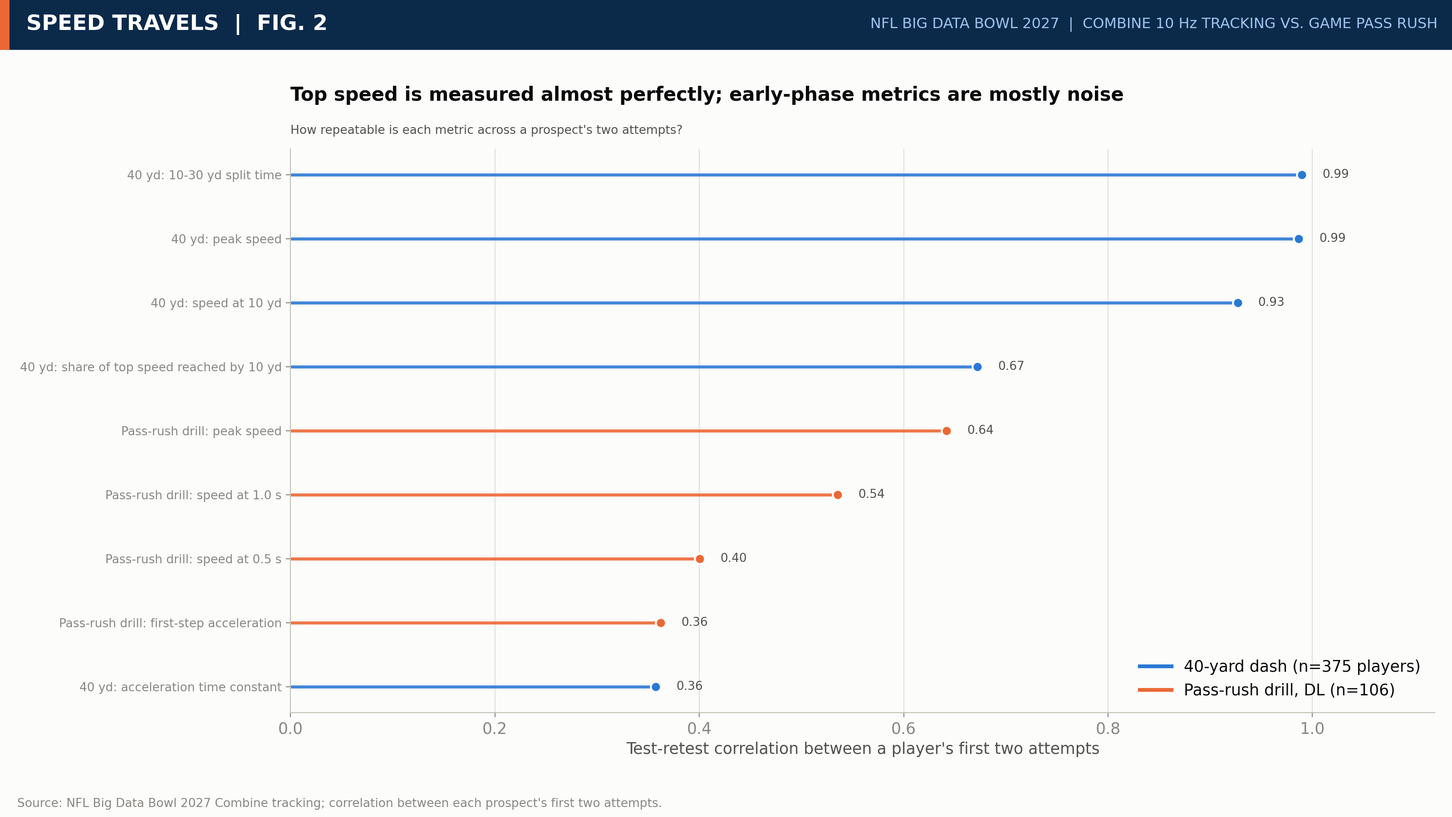
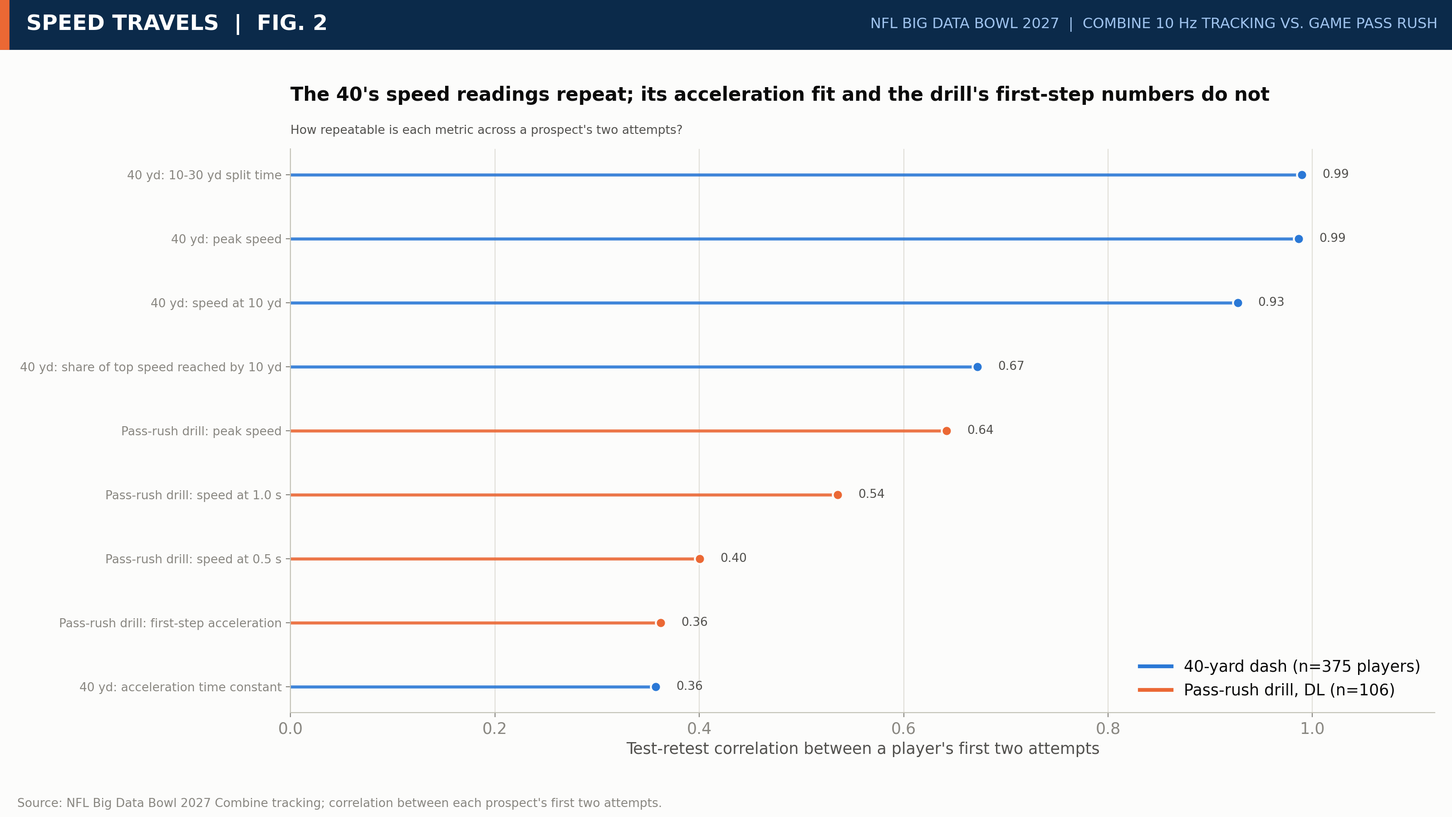
v27: fixes from second blind review; drill outlier check (E22); NO-GO on 2026 nflverse test
Claude-Session: https://claude.ai/code/session_01NYNpUw5TLCT8fUrXZ4q2c3

Changed region(s): [[0.1875, 0.0933, 0.875, 0.1244]]

diff --git a/notebook/speed_travels.py b/notebook/speed_travels.py
@@ -290,6 +290,8 @@ def bootr(x, y, B=2000):
 dd_ = pg.dropna(subset=["d_s10"])
 res["translate"] = dict(n_game=len(pg), r_vpk_s10=bootr(pg.vpk.values, pg.s_10.values), r_vpk_smax=bootr(pg.vpk.values, pg.smax_pre.values), n_drill=len(dd_),
                         r_drill_s10=bootr(dd_.d_s10.values, dd_.s_10.values), r_drill_s05=bootr(dd_.d_s05.values, dd_.s_10.values), r_drill_speak=bootr(dd_.d_speak.values, dd_.s_10.values))
+_z = (dd_.d_s10 - dd_.d_s10.mean()) / dd_.d_s10.std(); _k = (_z.abs() <= 3).values
+res["translate"]["r_drill_s10_trim"] = bootr(dd_.d_s10.values[_k], dd_.s_10.values[_k]); res["translate"]["n_drill_outliers"] = int((~_k).sum())
 for nm, msk in (("interior", pg.ipos > 0.5), ("edge", pg.ipos <= 0.5)):
     q = pg[msk]; res["translate"][f"within_{nm}"] = dict(n=len(q), r_vpk_s10=bootr(q.vpk.values, q.s_10.values) if len(q) > 10 else None)
 print(json.dumps(res["translate"], indent=1))
@@ -879,7 +881,7 @@ for i, (k, v) in enumerate(order):
     col = BLUE if k.startswith("40") else ORANGE; ax.hlines(i, 0, v, color=col, lw=2.4, alpha=0.9); ax.plot(v, i, "o", ms=8, color=col, mec=SURF, mew=1.5); ax.text(v + 0.02, i, f"{v:.2f}", va="center", fontsize=9.5, color=INK2)
 ax.set_yticks(range(len(order))); ax.set_yticklabels([k for k, _ in order], fontsize=9.5); ax.set_xlim(0, 1.12); ax.set_xlabel("Test-retest correlation between a player's first two attempts"); ax.grid(axis="y", visible=False)
 ax.legend(handles=[Line2D([0], [0], color=BLUE, lw=3, label=f"40-yard dash (n={res['reliability_n']['forty']} players)"), Line2D([0], [0], color=ORANGE, lw=3, label=f"Pass-rush drill, DL (n={res['reliability_n']['prd']})")], loc="lower right")
-headline(ax, "Top speed is measured almost perfectly; early-phase metrics are mostly noise", "How repeatable is each metric across a prospect's two attempts?"); fig.tight_layout(); save(fig, "fig2_reliability.png")
+headline(ax, "The 40's speed readings repeat; its acceleration fit and the drill's first-step numbers do not", "How repeatable is each metric across a prospect's two attempts?"); fig.tight_layout(); save(fig, "fig2_reliability.png")
 
 # %% [markdown]
 # **Figure 3.** Which Combine numbers show up in the game?
@@ -890,9 +892,10 @@ ax[0].scatter(pg.vpk, pg.s_10, s=np.clip(pg.n / 6, 14, 90), c=np.where(pg.ipos >
 r, lo, hi = tr_["r_vpk_s10"]; ax[0].text(0.04, 0.95, f"within interior r = {tr_['within_interior']['r_vpk_s10'][0]:.2f}, within edge r = {tr_['within_edge']['r_vpk_s10'][0]:.2f}\npooled r = {r:.2f} (inflated by the group gap); n = {tr_['n_game']}", transform=ax[0].transAxes, va="top", fontsize=10, fontweight="bold")
 headline(ax[0], "Top-end speed shows up in the rush", "Combine 40 top speed vs. in-game speed 1.0 s into a pass rush; dot size = game rushes")
 ax[1].scatter(dd_.d_s10, dd_.s_10, s=np.clip(dd_.n / 6, 14, 90), c=np.where(dd_.ipos > 0.5, BLUE, ORANGE), alpha=0.8, lw=0.8, edgecolor=SURF); ax[1].set_xlabel("Combine pass-rush drill: speed 1.0 s in (yd/s)")
-r, lo, hi = tr_["r_drill_s10"]; ax[1].text(0.04, 0.95, f"r = {r:.2f}  (95% CI {lo:.2f} to {hi:.2f})\nn = {tr_['n_drill']} linemen", transform=ax[1].transAxes, va="top", fontsize=10.5, fontweight="bold")
-headline(ax[1], "The drill's speed 1.0 s in does not", "Same in-game outcome vs. the Combine pass-rush drill's speed 1.0 s in")
-ax[1].legend(handles=[Line2D([0], [0], marker="o", ls="", color=BLUE, label="Interior DL"), Line2D([0], [0], marker="o", ls="", color=ORANGE, label="Edge")], loc="lower right"); fig.tight_layout(); save(fig, "fig3_translation.png")
+r, lo, hi = tr_["r_drill_s10"]; r_wo = tr_["r_drill_s10_trim"][0]; n_out = tr_["n_drill_outliers"]
+ax[1].text(0.97, 0.05, f"r = {r:.2f}  (95% CI {lo:.2f} to {hi:.2f})\nwithout {n_out} drill outlier(s) beyond 3 SD: r = {r_wo:.2f}\nn = {tr_['n_drill']} linemen", transform=ax[1].transAxes, ha="right", va="bottom", fontsize=10, fontweight="bold")
+headline(ax[1], "The drill's speed 1.0 s in tracks it more weakly", "Same in-game outcome vs. the Combine pass-rush drill's speed 1.0 s in")
+ax[1].legend(handles=[Line2D([0], [0], marker="o", ls="", color=BLUE, label="Interior DL"), Line2D([0], [0], marker="o", ls="", color=ORANGE, label="Edge")], loc="upper right"); fig.tight_layout(); save(fig, "fig3_translation.png")
 
 # %% [markdown]
 # **Figure 4.** Interior DL: pressure rate rises with Combine top speed. Edge rushers: it does not.
@@ -921,7 +924,7 @@ ax.hlines(y[-1], nloo[0], nloo[1], color=BLUE, lw=5, alpha=0.5); ax.text(XR + 0.
 pbx = res.get("pooled_boot")
 if pbx: ax.set_ylim(-0.7, y[0] + 1.5); ax.hlines(y[0] + 0.9, pbx["OR_lo"], pbx["OR_hi"], color=ORANGE, lw=2.2); ax.plot(rb[rows_[0][0]]["OR"], y[0] + 0.9, "o", color=ORANGE, ms=7.5, mec=SURF, mew=1.4); ax.text(XR + 0.03, y[0] + 0.9, f"[{pbx['OR_lo']:.2f}, {pbx['OR_hi']:.2f}]  baseline, player bootstrap", va="center", fontsize=9, color=ORANGE)
 ax.set_yticks(y); ax.set_yticklabels([k for k, _ in rows_] + ["Drop any single player (all refits)"], fontsize=9.5); ax.axvline(1, color=INK2, lw=1.2, ls="--"); ax.set_xlim(0.9, XR); ax.set_xlabel("Odds ratio of generating pressure per +0.5 yd/s top speed (stopwatch row: per 0.2 s faster)"); ax.grid(axis="y", visible=False)
-headline(ax, "Stable point estimates, but the uncertainty is wider than these bars", f"Clustered-SE 95% CIs (blue); orange = baseline with whole players resampled. Point estimates {min(v['OR'] for v in rb.values()):.2f} to {max(v['OR'] for v in rb.values()):.2f}; {sum(v['lo'] <= 1 for v in rb.values())} of {len(rb)} intervals touch 1.0"); fig.tight_layout(); save(fig, "fig5_robust.png", right=0.74)
+headline(ax, "Stable point estimates, but the uncertainty is wider than these bars", f"Clustered-SE 95% CIs (blue); orange = baseline with whole players resampled. Point estimates {min(v['OR'] for v in rb.values()):.2f} to {max(v['OR'] for v in rb.values()):.2f}; {sum(v['lo'] <= 1 for v in rb.values())} of {len(rb)} clustered intervals touch 1.0" + ("; so does the player-bootstrap interval" if (res.get("pooled_boot") or {}).get("OR_lo", 2) <= 1 else "")); fig.tight_layout(); save(fig, "fig5_robust.png", right=0.74)
 
 # %% [markdown]
 # **Figure 6.** The interior effect class by class.
@@ -939,7 +942,7 @@ for yv, (lab, o_, l_, h_, bl, bh, nn_) in zip(yy6, rows6):
 ax.set_xscale("log"); ax.xaxis.set_minor_formatter(matplotlib.ticker.NullFormatter()); ax.set_xticks([0.5, 0.75, 1, 1.5, 2, 3, 4]); ax.set_xticklabels(["0.5", "0.75", "1", "1.5", "2", "3", "4"]); ax.set_xlim(0.25, 4.3)
 ax.axvline(1, color=INK2, lw=1.2, ls="--"); ax.set_yticks(yy6); ax.set_yticklabels([r_[0] for r_ in rows6], fontsize=10); ax.grid(axis="y", visible=False); ax.set_xlabel("Odds ratio of pressure per +0.5 yd/s top speed (log scale)")
 ax.legend(handles=[Line2D([0], [0], color=BLUE, lw=2.6, label="clustered-SE 95% CI"), Line2D([0], [0], color=ORANGE, lw=2.2, label="player-bootstrap 95% CI")], loc="lower left", fontsize=9)
-headline(ax, "Every class leans positive; only 2023 is precise", f"Interior DL. Class-by-speed interaction p = {wcf['interaction_wald_p']:.2f}: the data cannot tell a common effect from a 2023-only one.")
+headline(ax, "Every class leans positive; none is precise once whole players are resampled", f"Interior DL. Class-by-speed interaction p = {wcf['interaction_wald_p']:.2f}: the data cannot tell a common effect from a 2023-only one.")
 fig.tight_layout(); save(fig, "fig6_scouting.png", right=0.80)
 
 # %% [markdown]

diff --git a/writeup/fill_writeup.py b/writeup/fill_writeup.py
@@ -158,7 +158,7 @@ if lc:
             prec = [k for k in cls_ if wc[k]["lo"] > 1.0]
             s_ += (" Per class (Fig. 6) the estimate " + ("exceeds 1" if all(wc[k]["OR"] > 1 for k in cls_) else "mixed") + " ("
                    + ", ".join(f"{k} {wc[k]['OR']:.2f}" for k in cls_) + f"; class difference p = {wc['interaction_wald_p']:.2f}), but only "
-                   + " and ".join(prec) + " is precise" + (f"; without {c_}, OR {ex_['OR']:.2f} [{ex_['lo']:.2f}, {ex_['hi']:.2f}]" if ex_ else "")
+                   + " and ".join(prec) + "'s clustered interval excludes 1" + (f", and its player bootstrap ({wc[prec[0]]['boot_ci'][0]:.2f} to {wc[prec[0]]['boot_ci'][1]:.2f}) touches 1" if len(prec) == 1 and wc[prec[0]].get("boot_ci") and wc[prec[0]]["boot_ci"][0] <= 1 else "") + (f"; without {c_}, OR {ex_['OR']:.2f} [{ex_['lo']:.2f}, {ex_['hi']:.2f}]" if ex_ else "")
                    + f". The data cannot separate a common effect from a {c_}-only one.")
             bc_ = wc[c_].get("boot_ci")
             tok["LIM_CLASS"] = (f"Only the {c_} class estimates the interior effect precisely" + (f" (its player bootstrap, {bc_[0]:.2f} to {bc_[1]:.2f}, touches 1)" if bc_ and bc_[0] <= 1 else "")

diff --git a/writeup/writeup_template.md b/writeup/writeup_template.md
@@ -2,7 +2,7 @@
 
 **Track:** Open. The attached public notebook rebuilds every number and figure from the raw competition files; code, figures and results are mirrored at github.com/tdogukan470-jpg/nfl-bdb-2027.
 
-**Bottom line for a front office.** (1) The 40's top speed is the one Combine movement number that reaches the field: it repeats almost perfectly and shows up in game speed, while drill first-step numbers are noise. (2) Faster interior linemen get off the ball sooner (robust to resampling whole players) and generate more pressure ({PCT1:p10_p90.rate10}% to {PCT1:p10_p90.rate90}% from the 10th to 90th speed percentile); the pressure gain is precise only in the 2023 class, so use it as a tiebreaker, not a rule. (3) For edge rushers, offensive linemen and receivers the 40 adds nothing detectable beyond size and draft slot.
+**Bottom line for a front office.** (1) The 40's top speed is the one Combine movement number that reaches the field: it repeats almost perfectly and shows up in game speed, while drill first-step numbers repeat poorly and track game speed weakly. (2) Faster interior linemen get off the ball sooner (robust to resampling whole players) and generate more pressure ({PCT1:p10_p90.rate10}% to {PCT1:p10_p90.rate90}% from the 10th to 90th speed percentile); the pressure gain is borderline once whole players are resampled ({F2:pooled_boot.OR_lo} to {F2:pooled_boot.OR_hi}) and has not held out of class, so use it as a tiebreaker, not a rule. (3) For edge rushers, offensive linemen and receivers the 40 shows no consistent effect beyond size and draft slot (one edge class, 2024, alone gives OR {F2:within_class.edge_2024.OR}, player bootstrap {F2:within_class.edge_2024.boot_ci.0} to {F2:within_class.edge_2024.boot_ci.1}).
 
 ## 1. The question
 
@@ -26,16 +26,16 @@ From each 10 Hz 40-yard trace we rebuilt start of motion, peak speed over 30 yd,
 
 **Data hygiene.** We drop preseason and playoff games ({PCT_NONREG}% of player-play rows) and keep regular-season dropbacks; including every game gives OR {OR:robust.All games incl. preseason and playoffs}.
 
-## 3. Drill numbers do not travel (Fig. 3)
+## 3. Drill numbers travel weakly (Fig. 3)
 
-For {N:translate.n_game} linemen with both drill traces and game tracking, the 40's top speed tracks game speed one second after the snap within each group (interior r = {F2:translate.within_interior.r_vpk_s10.0}, edge r = {F2:translate.within_edge.r_vpk_s10.0}; pooled {F2:translate.r_vpk_s10.0}, inflated by the interior-edge gap). The drill's speed one second in does not (r = {F2:translate.r_drill_s10.0}, CI {F2:translate.r_drill_s10.1} to {F2:translate.r_drill_s10.2}); its peak speed does better (r = {F2:translate.r_drill_speak.0}; top speed again). Trust the 40's speed trace; single-attempt first-step numbers are too noisy to use alone.
+For {N:translate.n_game} linemen with both drill traces and game tracking, the 40's top speed tracks game speed one second after the snap within each group (interior r = {F2:translate.within_interior.r_vpk_s10.0}, edge r = {F2:translate.within_edge.r_vpk_s10.0}; pooled {F2:translate.r_vpk_s10.0}, inflated by the interior-edge gap). The drill's speed one second in tracks it weakly: r = {F2:translate.r_drill_s10.0} (CI {F2:translate.r_drill_s10.1} to {F2:translate.r_drill_s10.2}), or {F2:translate.r_drill_s10_trim.0} ({F2:translate.r_drill_s10_trim.1} to {F2:translate.r_drill_s10_trim.2}) without one outlier trace, against {F2:translate.r_vpk_s10.0} for the 40 on the same pooled basis. Trust the 40's speed trace, not single-attempt first-step numbers.
 
 ![Fig. 3: Does Combine speed translate to in-game speed?]({IMG}fig3_translation.png)
-*Figure 3. Combine measures against in-game speed one second after the snap: the 40's top speed (left) carries over, the pass-rush drill's speed 1.0 s in (right) does not. Dot size: game rushes.*
+*Figure 3. Combine measures against in-game speed one second after the snap: the 40's top speed (left) carries over, the pass-rush drill's speed 1.0 s in (right) tracks it more weakly, and its r depends on one outlier. Dot size: game rushes.*
 
 ## 4. Method
 
-From 2023 to 2025 regular-season tracking we computed pressure per pass rush (interior DL, edge), pressure allowed per block (OL) and separation at pass-forward for WR/TE adjusted for route and coverage. The Combine feature is mean top speed across a player's 40 attempts, in units of +0.5 yd/s, about {STOPWATCH} s on the stopwatch at a lineman's speed. Models are GEE with standard errors clustered by player [8] (logistic for pressure, linear for separation), controlling for weight, arm length, log draft slot and draft class, plus down and distance for rushers and route, coverage and cushion for receivers. Speed and weight correlate at {F2:interior_corr_weight_speed} among interior linemen, so size is always in the model. An odds ratio (OR) of 1.22 means 22% higher odds of pressure; 1.0 means no effect.
+From 2023 to 2025 regular-season tracking we computed pressure per pass rush (interior DL, edge), pressure allowed per block (OL) and separation at pass-forward for WR/TE adjusted for route and coverage. The Combine feature is mean top speed across a player's 40 attempts, in units of +0.5 yd/s, about {STOPWATCH} s on the stopwatch at a lineman's speed. Models are GEE with standard errors clustered by player [8] (logistic for pressure, linear for separation), controlling for weight, arm length, log draft slot and draft class, plus game situation (and route and coverage for receivers). Speed and weight correlate at {F2:interior_corr_weight_speed} among interior linemen, so size is always in the model. An odds ratio (OR) of 1.22 means 22% higher odds of pressure; 1.0 means no effect.
 
 ## 5. Result: interior defensive linemen
 
@@ -63,7 +63,7 @@ For {N:n.int_players} interior DL and {N:n.int_snaps} rushes, each +0.5 yd/s rai
 
 ## 6. Are we only seeing the players good enough to play?
 
-A fast lineman who never earns snaps is invisible here, which could flatter speed. Of {N:selection.universe} prospects, {PCT0:selection.share_any_snap}% appear in game tracking, but only {N:selection.S_rush.n_selected} ({PCT0:selection.share_rush}%) rush the passer and {N:selection.S_100.n_selected} ({PCT0:selection.share_100}%) rush 100+ times. Upweighting rushers whose profile made the field unlikely (stabilized inverse-probability weights; with AUC {F2:selection.S_rush.auc} the weights lean on few players) gives OR {OR:robust.IPW selection weights (any rush snap)} ({LO:robust.IPW selection weights (any rush snap)} to {HI:robust.IPW selection weights (any rush snap)}), the same for 100+ rushes. A Heckman-type control function [7], with draft class as the excluded variable, gives {OR:robust.Heckman-type control function (any rush snap)} and {OR:robust.Heckman-type control function (100+ rush snaps)} (Mills ratio p = {P2:selection.S_rush.imr_coef_p} and {P2:selection.S_100.imr_coef_p}). Correcting for who reached the field shrinks the estimate slightly but does not remove it.
+A fast lineman who never earns snaps is invisible here, which could flatter speed. Of {N:selection.universe} prospects, {PCT0:selection.share_any_snap}% appear in game tracking, but only {N:selection.S_rush.n_selected} ({PCT0:selection.share_rush}%) rush the passer and {N:selection.S_100.n_selected} ({PCT0:selection.share_100}%) rush 100+ times. Upweighting rushers whose profile made the field unlikely (stabilized inverse-probability weights; with AUC {F2:selection.S_rush.auc} the weights lean on few players) gives OR {OR:robust.IPW selection weights (any rush snap)} ({LO:robust.IPW selection weights (any rush snap)} to {HI:robust.IPW selection weights (any rush snap)}), the same for 100+ rushes. A Heckman-type control function [7], with draft class as the excluded variable (so that outcome model drops class fixed effects), gives {OR:robust.Heckman-type control function (any rush snap)} and {OR:robust.Heckman-type control function (100+ rush snaps)} (Mills ratio p = {P2:selection.S_rush.imr_coef_p} and {P2:selection.S_100.imr_coef_p}). The estimate shrinks slightly but survives.
 
 ## 7. Is it the player or the situation?
 
@@ -71,7 +71,7 @@ Some rushes are easier than others. We predicted each rush's pressure chance (xP
 
 Pressure Over Expected (POE) is pressure minus xP: what the rusher adds beyond his situation. Adjusting for situation changes nothing: interior OR {OR:poe.interior.or_offset} ({LO:poe.interior.or_offset} to {HI:poe.interior.or_offset}), or {F1:poe.interior.poe_pp_per_unit.b} POE points per 100 rushes per +0.5 yd/s ({F1:poe.interior.poe_pp_per_unit.lo} to {F1:poe.interior.poe_pp_per_unit.hi}). Edge: OR {OR:poe.edge.or_offset} ({LO:poe.edge.or_offset} to {HI:poe.edge.or_offset}).
 
-**Can we rank individual players? No.** A Beta-Binomial model that pulls each player's POE toward what his measurables predict cuts the spread of player POE from {F1:eb.interior.sd_raw_poe_pp} to {F1:eb.interior.sd_shrunk_poe_pp} points; at 500 rushes a player's own record gets {EBW}% weight. Speed in that model carries OR {F2:eb.interior.OR} (likelihood-ratio p = {P3:eb.interior.lr_p}, but player bootstrap {F2:eb.interior.OR_lo} to {F2:eb.interior.OR_hi}): supportive, not decisive. Edge: OR {F2:eb.edge.OR} ({F2:eb.edge.OR_lo} to {F2:eb.edge.OR_hi}).
+**Can we rank individual players? No.** A Beta-Binomial model that pulls each player's POE toward what his measurables predict cuts the spread of player POE from {F1:eb.interior.sd_raw_poe_pp} to {F1:eb.interior.sd_shrunk_poe_pp} points; at 500 rushes a player's own record gets {EBW}% weight. Speed in that model carries OR {F2:eb.interior.OR} (likelihood-ratio p = {P3:eb.interior.lr_p}, but player bootstrap {F2:eb.interior.OR_lo} to {F2:eb.interior.OR_hi}): supportive, not decisive.
 
 ## 8. How does speed become pressure?
 
@@ -79,14 +79,14 @@ We split the speed effect into paths (Imai-Keele-Tingley mediation [5], 1,000 dr
 
 **Interior: a faster first move.** Speed shortens get-off (snap to first movement) by {GETOFF_SD} SD per +0.5 yd/s (whole-player bootstrap {GETOFF_BOOT}; shorter in all three classes, each imprecise alone), and get-off drives pressure: the part running through it (indirect effect) is {PP:mediation.interior.player_get_off.acme} (p = {P3:mediation.interior.player_get_off.acme.p}) of a total {PP:mediation.interior.player_get_off.tot}, so **{PCT0:mediation.interior.player_get_off.prop.est}% ({PCT0:mediation.interior.player_get_off.prop.lo}% to {PCT0:mediation.interior.player_get_off.prop.hi}%) runs through get-off**. No other path carries a detectable share.
 
-**Edge: the path spends the speed.** Faster edge rushers do run faster in-game (indirect effect through speed at 1 s {PP:mediation.edge.s_10.acme}), but they take less direct paths: path efficiency carries {PP:mediation.edge.path_eff_20.acme} against a direct effect of {PP:mediation.edge.path_eff_20.ade}, total {PP:mediation.edge.path_eff_20.tot}. These assume no unmeasured factor drives both path and outcome.
+**Edge.** Faster edge rushers run faster in-game (indirect effect through speed at 1 s {PP:mediation.edge.s_10.acme}) but take less direct paths (path efficiency {PP:mediation.edge.path_eff_20.acme}); the total, {PP:mediation.edge.path_eff_20.tot}, includes zero. This assumes no unmeasured factor drives both path and outcome.
 
-## 9. Does it predict players we have not seen?
+## 9. Does it hold in a new season and a new class?
 
-The easier test: fit through 2024, predict 2025 (Fig. 7). For {N:forward.eval_players} interior linemen with 75+ snaps, adding speed lifts the rank correlation from {F2:forward.rho_draft+size} to {F2:forward.rho_draft+size+speed}; the log-loss gain is positive in {PCT0:forward.dll_pos_share}% of bootstrap resamples but its interval includes zero. {LOCO_SENTENCE}
+The easier test: fit through 2024, predict 2025 (Fig. 7). For {N:forward.eval_players} interior linemen with 75+ snaps, adding speed lifts the rank correlation from {F2:forward.rho_draft+size} to {F2:forward.rho_draft+size+speed}; the log-loss gain's interval includes zero. {LOCO_SENTENCE}
 
 ![Fig. 6: Interior effect by draft class]({IMG}fig6_scouting.png)
-*Figure 6. Interior speed effect fit separately by draft class. Blue: clustered-SE intervals; orange: whole-player bootstrap. Every class leans positive; only 2023 is precise.*
+*Figure 6. Interior speed effect fit separately by draft class. Blue: clustered-SE intervals; orange: whole-player bootstrap. Every class leans positive; none is precise once whole players are resampled (2023 is the tightest).*
 
 ![Fig. 7: Out-of-time check (fit through 2024, test 2025)]({IMG}fig7_forward.png)
 *Figure 7. Models fit on 2023 and 2024 predict 2025 interior pressure rates; most 2025 rates sit above the predictions. Adding Combine speed lifts the rank correlation from {F2:forward.rho_draft+size} to {F2:forward.rho_draft+size+speed}; the change has a 95% interval of {F2:forward.drho_ci.0} to {F2:forward.drho_ci.1}.*
@@ -102,7 +102,7 @@ The easier test: fit through 2024, predict 2025 (Fig. 7). For {N:forward.eval_pl
 | Interior, 10 to 30 yd split <= {CUT_G} s ({N_G} players) | POE {POE_G} vs {POE_REST} for the rest; gap {GAP_G} | Flag for a closer pass-rush look |
 | Interior, split {CUT_G} to {CUT_R} s ({N_MID} players) | {MID_TEXT} | Rely on tape and size |
 | Interior, split > {CUT_R} s ({N_R} players) | POE {POE_R} | Lower pass-rush priority; let tape decide |
-| Interior up to {W2} lb (3-tech types) | Fast-minus-slow POE {GAP_LIGHT_CI} (<= {W1} lb) and {GAP_MID_CI} ({W1P} to {W2} lb) | {LIGHT_ACTION} |
+| Interior up to {W2} lb (the lightest band includes linebackers and DBs aligned inside) | Fast-minus-slow POE {GAP_LIGHT_CI} (<= {W1} lb) and {GAP_MID_CI} ({W1P} to {W2} lb) | {LIGHT_ACTION} |
 | Interior {W2P}+ lb (nose types) | Fast-minus-slow {GAP_HEAVY} | No gap; use other traits |
 | Fast edge, efficient drill path ({N_FE} players) | POE {POE_FE} | No clear gain from speed; judge on tape |
 | Fast edge, inefficient drill path ({N_FI} players) | POE {POE_FI}; wide {POE_FI_W}, tight {POE_FI_T} (exploratory) | Wider alignment did not help |
@@ -115,13 +115,13 @@ Edge cells use the drill's path efficiency, which does not predict pressure on i
 
 - Observational data: no causal claim beyond the mediation assumptions above.
 - {N:n.int_players} interior and {N:n.edge_players} edge players; decision-matrix cells are small.
-- Only the 2023 class estimates the pressure effect precisely.
+- No single draft class pins down the pressure effect once whole players are resampled.
 - The sensor audit covers the 40-yard window only; no quarterback tracking, time to throw or line-up depth, so double-team and alignment are proxies.
 - Edge and OL nulls mean no detectable linear speed effect, not zero.
 
 ## 12. Takeaway
 
-At 10 Hz the 40 is a top-speed test, and its clearest game footprint is a faster interior get-off. The pressure gain that follows (about {F1:p10_p90.ratio}x from slow to fast) is not yet proven out of class, so it should guide where scouts look, not replace the tape. On the edge, speed is real but the path spends it.
+At 10 Hz the 40 is a top-speed test, and its clearest game footprint is a faster interior get-off. The pressure gain that follows (about {F1:p10_p90.ratio}x from slow to fast) is not yet proven out of class, so it should guide where scouts look, not replace the tape.
 
 ## Appendix: references
 

diff --git a/writeup/writeup.md b/writeup/writeup.md
@@ -2,7 +2,7 @@
 
 **Track:** Open. The attached public notebook rebuilds every number and figure from the raw competition files; code, figures and results are mirrored at github.com/tdogukan470-jpg/nfl-bdb-2027.
 
-**Bottom line for a front office.** (1) The 40's top speed is the one Combine movement number that reaches the field: it repeats almost perfectly and shows up in game speed, while drill first-step numbers are noise. (2) Faster interior linemen get off the ball sooner (robust to resampling whole players) and generate more pressure (6.3% to 11.4% from the 10th to 90th speed percentile); the pressure gain is precise only in the 2023 class, so use it as a tiebreaker, not a rule. (3) For edge rushers, offensive linemen and receivers the 40 adds nothing detectable beyond size and draft slot.
+**Bottom line for a front office.** (1) The 40's top speed is the one Combine movement number that reaches the field: it repeats almost perfectly and shows up in game speed, while drill first-step numbers repeat poorly and track game speed weakly. (2) Faster interior linemen get off the ball sooner (robust to resampling whole players) and generate more pressure (6.3% to 11.4% from the 10th to 90th speed percentile); the pressure gain is borderline once whole players are resampled (0.99 to 1.42) and has not held out of class, so use it as a tiebreaker, not a rule. (3) For edge rushers, offensive linemen and receivers the 40 shows no consistent effect beyond size and draft slot (one edge class, 2024, alone gives OR 1.39, player bootstrap 0.90 to 2.03).
 
 ## 1. The question
 
@@ -26,16 +26,16 @@ From each 10 Hz 40-yard trace we rebuilt start of motion, peak speed over 30 yd,
 
 **Data hygiene.** We drop preseason and playoff games (21% of player-play rows) and keep regular-season dropbacks; including every game gives OR 1.23.
 
-## 3. Drill numbers do not travel (Fig. 3)
+## 3. Drill numbers travel weakly (Fig. 3)
 
-For 59 linemen with both drill traces and game tracking, the 40's top speed tracks game speed one second after the snap within each group (interior r = 0.39, edge r = 0.37; pooled 0.77, inflated by the interior-edge gap). The drill's speed one second in does not (r = 0.13, CI -0.22 to 0.52); its peak speed does better (r = 0.47; top speed again). Trust the 40's speed trace; single-attempt first-step numbers are too noisy to use alone.
+For 59 linemen with both drill traces and game tracking, the 40's top speed tracks game speed one second after the snap within each group (interior r = 0.39, edge r = 0.37; pooled 0.77, inflated by the interior-edge gap). The drill's speed one second in tracks it weakly: r = 0.13 (CI -0.22 to 0.52), or 0.37 (0.17 to 0.57) without one outlier trace, against 0.77 for the 40 on the same pooled basis. Trust the 40's speed trace, not single-attempt first-step numbers.
 
 ![Fig. 3: Does Combine speed translate to in-game speed?](https://raw.githubusercontent.com/tdogukan470-jpg/nfl-bdb-2027/main/figures/fig3_translation.png)
-*Figure 3. Combine measures against in-game speed one second after the snap: the 40's top speed (left) carries over, the pass-rush drill's speed 1.0 s in (right) does not. Dot size: game rushes.*
+*Figure 3. Combine measures against in-game speed one second after the snap: the 40's top speed (left) carries over, the pass-rush drill's speed 1.0 s in (right) tracks it more weakly, and its r depends on one outlier. Dot size: game rushes.*
 
 ## 4. Method
 
-From 2023 to 2025 regular-season tracking we computed pressure per pass rush (interior DL, edge), pressure allowed per block (OL) and separation at pass-forward for WR/TE adjusted for route and coverage. The Combine feature is mean top speed across a player's 40 attempts, in units of +0.5 yd/s, about 0.2 s on the stopwatch at a lineman's speed. Models are GEE with standard errors clustered by player [8] (logistic for pressure, linear for separation), controlling for weight, arm length, log draft slot and draft class, plus down and distance for rushers and route, coverage and cushion for receivers. Speed and weight correlate at -0.83 among interior linemen, so size is always in the model. An odds ratio (OR) of 1.22 means 22% higher odds of pressure; 1.0 means no effect.
+From 2023 to 2025 regular-season tracking we computed pressure per pass rush (interior DL, edge), pressure allowed per block (OL) and separation at pass-forward for WR/TE adjusted for route and coverage. The Combine feature is mean top speed across a player's 40 attempts, in units of +0.5 yd/s, about 0.2 s on the stopwatch at a lineman's speed. Models are GEE with standard errors clustered by player [8] (logistic for pressure, linear for separation), controlling for weight, arm length, log draft slot and draft class, plus game situation (and route and coverage for receivers). Speed and weight correlate at -0.83 among interior linemen, so size is always in the model. An odds ratio (OR) of 1.22 means 22% higher odds of pressure; 1.0 means no effect.
 
 ## 5. Result: interior defensive linemen
 
@@ -63,7 +63,7 @@ For 75 interior DL and 9,378 rushes, each +0.5 yd/s raises the odds of pressure 
 
 ## 6. Are we only seeing the players good enough to play?
 
-A fast lineman who never earns snaps is invisible here, which could flatter speed. Of 510 prospects, 79% appear in game tracking, but only 105 (21%) rush the passer and 48 (9%) rush 100+ times. Upweighting rushers whose profile made the field unlikely (stabilized inverse-probability weights; with AUC 0.96 the weights lean on few players) gives OR 1.17 (1.04 to 1.33), the same for 100+ rushes. A Heckman-type control function [7], with draft class as the excluded variable, gives 1.22 and 1.19 (Mills ratio p = 0.16 and 0.63). Correcting for who reached the field shrinks the estimate slightly but does not remove it.
+A fast lineman who never earns snaps is invisible here, which could flatter speed. Of 510 prospects, 79% appear in game tracking, but only 105 (21%) rush the passer and 48 (9%) rush 100+ times. Upweighting rushers whose profile made the field unlikely (stabilized inverse-probability weights; with AUC 0.96 the weights lean on few players) gives OR 1.17 (1.04 to 1.33), the same for 100+ rushes. A Heckman-type control function [7], with draft class as the excluded variable (so that outcome model drops class fixed effects), gives 1.22 and 1.19 (Mills ratio p = 0.16 and 0.63). The estimate shrinks slightly but survives.
 
 ## 7. Is it the player or the situation?
 
@@ -71,7 +71,7 @@ Some rushes are easier than others. We predicted each rush's pressure chance (xP
 
 Pressure Over Expected (POE) is pressure minus xP: what the rusher adds beyond his situation. Adjusting for situation changes nothing: interior OR 1.22 (1.12 to 1.33), or 1.4 POE points per 100 rushes per +0.5 yd/s (0.8 to 2.0). Edge: OR 1.05 (0.94 to 1.18).
 
-**Can we rank individual players? No.** A Beta-Binomial model that pulls each player's POE toward what his measurables predict cuts the spread of player POE from 13.2 to 1.6 points; at 500 rushes a player's own record gets 3% weight. Speed in that model carries OR 1.20 (likelihood-ratio p = 0.003, but player bootstrap 0.93 to 1.34): supportive, not decisive. Edge: OR 1.04 (0.86 to 1.24).
+**Can we rank individual players? No.** A Beta-Binomial model that pulls each player's POE toward what his measurables predict cuts the spread of player POE from 13.2 to 1.6 points; at 500 rushes a player's own record gets 3% weight. Speed in that model carries OR 1.20 (likelihood-ratio p = 0.003, but player bootstrap 0.93 to 1.34): supportive, not decisive.
 
 ## 8. How does speed become pressure?
 
@@ -79,14 +79,14 @@ We split the speed effect into paths (Imai-Keele-Tingley mediation [5], 1,000 dr
 
 **Interior: a faster first move.** Speed shortens get-off (snap to first movement) by 0.14 SD per +0.5 yd/s (whole-player bootstrap 0.08 to 0.21; shorter in all three classes, each imprecise alone), and get-off drives pressure: the part running through it (indirect effect) is +0.29 [0.15, 0.45] (p = 0.001) of a total +1.46 [0.81, 2.13], so **20% (9% to 43%) runs through get-off**. No other path carries a detectable share.
 
-**Edge: the path spends the speed.** Faster edge rushers do run faster in-game (indirect effect through speed at 1 s +0.69 [0.32, 1.08]), but they take less direct paths: path efficiency carries -0.41 [-0.86, -0.13] against a direct effect of +1.22 [0.14, 2.40], total +0.79 [-0.40, 1.98]. These assume no unmeasured factor drives both path and outcome.
+**Edge.** Faster edge rushers run faster in-game (indirect effect through speed at 1 s +0.69 [0.32, 1.08]) but take less direct paths (path efficiency -0.41 [-0.86, -0.13]); the total, +0.79 [-0.40, 1.98], includes zero. This assumes no unmeasured factor drives both path and outcome.
 
-## 9. Does it predict players we have not seen?
+## 9. Does it hold in a new season and a new class?
 
-The easier test: fit through 2024, predict 2025 (Fig. 7). For 22 interior linemen with 75+ snaps, adding speed lifts the rank correlation from 0.67 to 0.72; the log-loss gain is positive in 92% of bootstrap resamples but its interval includes zero. The harder test fails: hiding one whole draft class at a time, adding speed does not improve predictions for the hidden class (log-loss gain -0.48 x 10^-3, 95% CI -1.26 to +0.40; rank correlation 0.32 without speed, 0.25 with). Per class (Fig. 6) the estimate exceeds 1 (2023 1.27, 2024 1.11, 2025 1.24; class difference p = 0.38), but only 2023 is precise; without 2023, OR 1.09 [0.75, 1.57]. The data cannot separate a common effect from a 2023-only one.
+The easier test: fit through 2024, predict 2025 (Fig. 7). For 22 interior linemen with 75+ snaps, adding speed lifts the rank correlation from 0.67 to 0.72; the log-loss gain's interval includes zero. The harder test fails: hiding one whole draft class at a time, adding speed does not improve predictions for the hidden class (log-loss gain -0.48 x 10^-3, 95% CI -1.26 to +0.40; rank correlation 0.32 without speed, 0.25 with). Per class (Fig. 6) the estimate exceeds 1 (2023 1.27, 2024 1.11, 2025 1.24; class difference p = 0.38), but only 2023's clustered interval excludes 1, and its player bootstrap (0.98 to 1.60) touches 1; without 2023, OR 1.09 [0.75, 1.57]. The data cannot separate a common effect from a 2023-only one.
 
 ![Fig. 6: Interior effect by draft class](https://raw.githubusercontent.com/tdogukan470-jpg/nfl-bdb-2027/main/figures/fig6_scouting.png)
-*Figure 6. Interior speed effect fit separately by draft class. Blue: clustered-SE intervals; orange: whole-player bootstrap. Every class leans positive; only 2023 is precise.*
+*Figure 6. Interior speed effect fit separately by draft class. Blue: clustered-SE intervals; orange: whole-player bootstrap. Every class leans positive; none is precise once whole players are resampled (2023 is the tightest).*
 
 ![Fig. 7: Out-of-time check (fit through 2024, test 2025)](https://raw.githubusercontent.com/tdogukan470-jpg/nfl-bdb-2027/main/figures/fig7_forward.png)
 *Figure 7. Models fit on 2023 and 2024 predict 2025 interior pressure rates; most 2025 rates sit above the predictions. Adding Combine speed lifts the rank correlation from 0.67 to 0.72; the change has a 95% interval of -0.11 to 0.23.*
@@ -102,7 +102,7 @@ The easier test: fit through 2024, predict 2025 (Fig. 7). For 22 interior lineme
 | Interior, 10 to 30 yd split <= 2.12 s (37 players) | POE +1.7 [+0.3, +3.2] vs -0.5 for the rest; gap +2.3 [+0.5, +4.1] | Flag for a closer pass-rush look |
 | Interior, split 2.12 to 2.20 s (15 players) | POE -0.2 [-2.4, +1.1] | Rely on tape and size |
 | Interior, split > 2.20 s (23 players) | POE -0.9 [-1.9, +0.1] | Lower pass-rush priority; let tape decide |
-| Interior up to 294 lb (3-tech types) | Fast-minus-slow POE +2.3 [-4.3, +11.9] (<= 263 lb) and +3.1 [+0.6, +5.3] (264 to 294 lb) | Weigh the split here; the 264 to 294 lb gap excludes 0 |
+| Interior up to 294 lb (the lightest band includes linebackers and DBs aligned inside) | Fast-minus-slow POE +2.3 [-4.3, +11.9] (<= 263 lb) and +3.1 [+0.6, +5.3] (264 to 294 lb) | Weigh the split here; the 264 to 294 lb gap excludes 0 |
 | Interior 297+ lb (nose types) | Fast-minus-slow +0.5 [-2.4, +2.4] | No gap; use other traits |
 | Fast edge, efficient drill path (16 players) | POE +1.5 [-1.8, +3.3] | No clear gain from speed; judge on tape |
 | Fast edge, inefficient drill path (18 players) | POE -0.8 [-3.8, +0.5]; wide -1.2, tight -1.7 (exploratory) | Wider alignment did not help |
@@ -115,13 +115,13 @@ Edge cells use the drill's path efficiency, which does not predict pressure on i
 
 - Observational data: no causal claim beyond the mediation assumptions above.
 - 75 interior and 95 edge players; decision-matrix cells are small.
-- Only the 2023 class estimates the pressure effect precisely.
+- No single draft class pins down the pressure effect once whole players are resampled.
 - The sensor audit covers the 40-yard window only; no quarterback tracking, time to throw or line-up depth, so double-team and alignment are proxies.
 - Edge and OL nulls mean no detectable linear speed effect, not zero.
 
 ## 12. Takeaway
 
-At 10 Hz the 40 is a top-speed test, and its clearest game footprint is a faster interior get-off. The pressure gain that follows (about 1.8x from slow to fast) is not yet proven out of class, so it should guide where scouts look, not replace the tape. On the edge, speed is real but the path spends it.
+At 10 Hz the 40 is a top-speed test, and its clearest game footprint is a faster interior get-off. The pressure gain that follows (about 1.8x from slow to fast) is not yet proven out of class, so it should guide where scouts look, not replace the tape.
 
 ## Appendix: references
 

diff --git a/project/DECISION_HISTORY.md b/project/DECISION_HISTORY.md
@@ -8,3 +8,10 @@
 - 2026-11-03: Drill-translation section moved before Method so figures appear in order 1-7 (live page verified). Writeup body now loaded into Kaggle from the GitHub raw file, so the published text and writeup/writeup.md are byte-identical.
 - 2026-11-03: E17 leave-one-class-out failed (speed does not improve held-out-class prediction; 2024+2025 classes alone give OR 1.00). Writeup, README, takeaway, limitations and Table 2 actions rewritten to say the interior effect leans on the 2023 class and is a hypothesis for new classes. Headline subtitle changed accordingly.
 - 2026-11-03: Kaggle bridge hardened: write_json retries on PermissionError; jobs claimed atomically (inbox -> claimed) so a second bridge instance cannot run a job twice. Takes effect after restart.
+
+## 2026-11-17 D: NO-GO on a 2026-season out-of-time test with nflverse data
+- Trigger: host confirmed public external data is allowed (discussion 759641, "submission should focus on the data from the 2027 Big Data Bowl"); a competitor pre-registered a 2026 out-of-time test (759351).
+- Feasibility checked WITHOUT looking at any speed-outcome relation: nflverse 2026 data reachable, through week 10. Per-rusher pressure is not public; only QB hits/sacks per defensive snap (a noisy proxy that also counts run snaps).
+- 2026 draft class DT with a public 40 time and >=100 defensive snaps through week 10: 4 players (5 at >=50). 2023-25 classes: 6/8/7.
+- Decision: NO-GO. A new-class test on 4-8 players with a proxy outcome cannot falsify or support an OR of about 1.2; a null would be uninformative and still have to be reported. Revisit only if a per-rusher pressure source becomes public.
+- Host also said pre-registration hash posts are not needed and are not judged (759621); no action.

diff --git a/project/COMPETITION_INTELLIGENCE.md b/project/COMPETITION_INTELLIGENCE.md
@@ -23,3 +23,8 @@ Writeups themselves are private until judging; only notebooks were readable.
 
 ## Our differentiators (HYPOTHESIS about judge perception)
 Snap-level GEE with player clustering; sensor audit; IPW + Heckman selection correction over all 510 prospects; out-of-fold context model; Beta-Binomial shrinkage; formal IKT mediation; BH-FDR over all tests; decision matrix in scouting units; literature contrast.
+
+## 2026-11-17 forum scan
+- 759641 (host Tom Bliss): any public/external data allowed, but the submission should focus on BDB 2027 data.
+- 759621 (Kaggle staff): pre-registration hash posts not needed and not considered by judges; judging uses only the final Writeup and attached notebook.
+- Several teams posted pre-registration hashes, including a "2026 out-of-time test" on nflverse data from week 11 (759351): competitors are adding out-of-time evidence.
